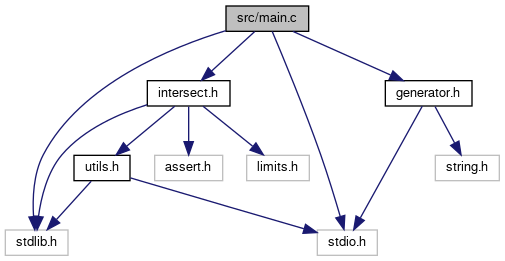
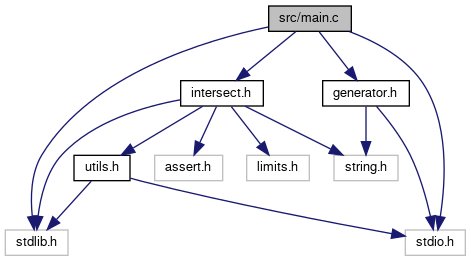
deploy: c0eaf6bf70ba02291c6ead931ca22426bdf595dd

diff --git a/intersect_8h_source.html b/intersect_8h_source.html
@@ -76,47 +76,49 @@ $(function() {
 <div class="line"><a name="l00014"></a><span class="lineno">   14</span>&#160; </div>
 <div class="line"><a name="l00015"></a><span class="lineno">   15</span>&#160;<span class="preprocessor">#include &lt;stdlib.h&gt;</span></div>
 <div class="line"><a name="l00016"></a><span class="lineno">   16</span>&#160;<span class="preprocessor">#include &lt;assert.h&gt;</span></div>
-<div class="line"><a name="l00017"></a><span class="lineno">   17</span>&#160;<span class="preprocessor">#include &lt;limits.h&gt;</span> <span class="comment">// INT_MAX</span></div>
-<div class="line"><a name="l00018"></a><span class="lineno">   18</span>&#160;<span class="preprocessor">#include &quot;<a class="code" href="utils_8h.html">utils.h</a>&quot;</span></div>
-<div class="line"><a name="l00019"></a><span class="lineno">   19</span>&#160; </div>
-<div class="line"><a name="l00020"></a><span class="lineno"><a class="line" href="structPaths.html">   20</a></span>&#160;<span class="keyword">typedef</span> <span class="keyword">struct </span>{</div>
-<div class="line"><a name="l00021"></a><span class="lineno">   21</span>&#160;  <span class="keywordtype">int</span>* p;</div>
-<div class="line"><a name="l00022"></a><span class="lineno">   22</span>&#160;  <span class="keywordtype">int</span>* l;</div>
-<div class="line"><a name="l00023"></a><span class="lineno">   23</span>&#160;  <span class="keywordtype">int</span>* r;</div>
-<div class="line"><a name="l00024"></a><span class="lineno">   24</span>&#160;  <span class="keywordtype">int</span> len;</div>
-<div class="line"><a name="l00025"></a><span class="lineno">   25</span>&#160;} <a class="code" href="structPaths.html">Paths</a>;</div>
-<div class="line"><a name="l00026"></a><span class="lineno">   26</span>&#160; </div>
-<div class="line"><a name="l00030"></a><span class="lineno">   30</span>&#160;<a class="code" href="structPaths.html">Paths</a> <a class="code" href="intersect_8h.html#a8825e952164dc385de3c4b5074821785">init_path</a>(<span class="keywordtype">int</span> len, <span class="keywordtype">int</span> p[], <span class="keywordtype">int</span> q[], <span class="keywordtype">int</span> r[]);</div>
-<div class="line"><a name="l00032"></a><span class="lineno">   32</span>&#160;<span class="keywordtype">void</span> <a class="code" href="intersect_8h.html#ac073207350efd314317ea290c18e830d">kill_path</a>(<a class="code" href="structPaths.html">Paths</a>);</div>
-<div class="line"><a name="l00033"></a><span class="lineno">   33</span>&#160; </div>
-<div class="line"><a name="l00034"></a><span class="lineno">   34</span>&#160; </div>
-<div class="line"><a name="l00043"></a><span class="lineno">   43</span>&#160;<span class="keywordtype">void</span> <a class="code" href="intersect_8h.html#a042d0437d8c9cdf4ac63c6f636269441">MERGE_SORT_FIRSTofThree</a>(<span class="keywordtype">int</span>* A, <span class="keywordtype">int</span>* a2, <span class="keywordtype">int</span>* a3, <span class="keywordtype">int</span> p, <span class="keywordtype">int</span> r);</div>
-<div class="line"><a name="l00045"></a><span class="lineno">   45</span>&#160;<span class="keywordtype">void</span> <a class="code" href="intersect_8h.html#a5c8fd40bb150eb9b965659743acc190f">MERGE_FIRSTofThree</a>(<span class="keywordtype">int</span>* A, <span class="keywordtype">int</span>* a2, <span class="keywordtype">int</span>* a3, <span class="keywordtype">int</span> p, <span class="keywordtype">int</span> q, <span class="keywordtype">int</span> r);</div>
-<div class="line"><a name="l00046"></a><span class="lineno">   46</span>&#160; </div>
-<div class="line"><a name="l00058"></a><span class="lineno">   58</span>&#160;<span class="keywordtype">int</span> <a class="code" href="intersect_8h.html#a6a4b796340d899fe719b47eff3a93c9e">MERGE_SORT_COUNT_INVERSION</a>(<span class="keywordtype">int</span>* Ps, <span class="keywordtype">int</span>* Ls, <span class="keywordtype">int</span>* Rs,<span class="keywordtype">int</span> l, <span class="keywordtype">int</span> r);</div>
-<div class="line"><a name="l00059"></a><span class="lineno">   59</span>&#160;<span class="keywordtype">int</span> MERGE_COUNT_INVERSION(<span class="keywordtype">int</span>* Ps, <span class="keywordtype">int</span>* Ls, <span class="keywordtype">int</span>* Rs, <span class="keywordtype">int</span> l, <span class="keywordtype">int</span> q, <span class="keywordtype">int</span> r);</div>
-<div class="line"><a name="l00060"></a><span class="lineno">   60</span>&#160; </div>
-<div class="line"><a name="l00062"></a><span class="lineno">   62</span>&#160;<span class="keywordtype">void</span> <a class="code" href="intersect_8h.html#a434c1a030b0e3acaf4df97cb2460eced">sortPaths_P</a>(<a class="code" href="structPaths.html">Paths</a>);</div>
-<div class="line"><a name="l00063"></a><span class="lineno">   63</span>&#160; </div>
-<div class="line"><a name="l00064"></a><span class="lineno">   64</span>&#160; </div>
-<div class="line"><a name="l00066"></a><span class="lineno">   66</span>&#160;<span class="keywordtype">int</span> <a class="code" href="intersect_8h.html#ac2db300b10cdf269eb03923416695aff">RegionOfBiggerEqualMono</a>(<span class="keywordtype">int</span> arr[], <span class="keywordtype">int</span> str, <span class="keywordtype">int</span> end, <span class="keywordtype">int</span> key,<span class="keywordtype">int</span>* beStr, <span class="keywordtype">int</span>* beEnd);</div>
-<div class="line"><a name="l00070"></a><span class="lineno">   70</span>&#160;<span class="keywordtype">int</span> <a class="code" href="intersect_8h.html#a728c7d72584160a044ea9333941268e7">ExcludeLen</a>(<span class="keywordtype">int</span> exStr, <span class="keywordtype">int</span> exEnd, <span class="keywordtype">int</span> conStr, <span class="keywordtype">int</span> conEnd);</div>
-<div class="line"><a name="l00071"></a><span class="lineno">   71</span>&#160; </div>
-<div class="line"><a name="l00081"></a><span class="lineno">   81</span>&#160;<span class="keywordtype">int</span> <a class="code" href="intersect_8h.html#a623d9088bdc9d72513a391fbd120b8d2">get_intersects</a>(<span class="keywordtype">int</span> n, <span class="keywordtype">int</span>* p, <span class="keywordtype">int</span>* q, <span class="keywordtype">int</span>* r);</div>
-<div class="line"><a name="l00082"></a><span class="lineno">   82</span>&#160; </div>
-<div class="line"><a name="l00083"></a><span class="lineno">   83</span>&#160; </div>
+<div class="line"><a name="l00017"></a><span class="lineno">   17</span>&#160;<span class="preprocessor">#include &lt;string.h&gt;</span></div>
+<div class="line"><a name="l00018"></a><span class="lineno">   18</span>&#160;<span class="preprocessor">#include &lt;limits.h&gt;</span> <span class="comment">// INT_MAX</span></div>
+<div class="line"><a name="l00019"></a><span class="lineno">   19</span>&#160;<span class="preprocessor">#include &quot;<a class="code" href="utils_8h.html">utils.h</a>&quot;</span></div>
+<div class="line"><a name="l00020"></a><span class="lineno">   20</span>&#160; </div>
+<div class="line"><a name="l00021"></a><span class="lineno"><a class="line" href="structPaths.html">   21</a></span>&#160;<span class="keyword">typedef</span> <span class="keyword">struct </span>{</div>
+<div class="line"><a name="l00022"></a><span class="lineno">   22</span>&#160;  <span class="keywordtype">int</span>* p;</div>
+<div class="line"><a name="l00023"></a><span class="lineno">   23</span>&#160;  <span class="keywordtype">int</span>* l;</div>
+<div class="line"><a name="l00024"></a><span class="lineno">   24</span>&#160;  <span class="keywordtype">int</span>* l_; <span class="comment">//Original </span></div>
+<div class="line"><a name="l00025"></a><span class="lineno">   25</span>&#160;  <span class="keywordtype">int</span>* r;</div>
+<div class="line"><a name="l00026"></a><span class="lineno">   26</span>&#160;  <span class="keywordtype">int</span> len;</div>
+<div class="line"><a name="l00027"></a><span class="lineno">   27</span>&#160;} <a class="code" href="structPaths.html">Paths</a>;</div>
+<div class="line"><a name="l00028"></a><span class="lineno">   28</span>&#160; </div>
+<div class="line"><a name="l00032"></a><span class="lineno">   32</span>&#160;<a class="code" href="structPaths.html">Paths</a> <a class="code" href="intersect_8h.html#a8825e952164dc385de3c4b5074821785">init_path</a>(<span class="keywordtype">int</span> len, <span class="keywordtype">int</span> p[], <span class="keywordtype">int</span> q[], <span class="keywordtype">int</span> r[]);</div>
+<div class="line"><a name="l00034"></a><span class="lineno">   34</span>&#160;<span class="keywordtype">void</span> <a class="code" href="intersect_8h.html#ac073207350efd314317ea290c18e830d">kill_path</a>(<a class="code" href="structPaths.html">Paths</a>);</div>
+<div class="line"><a name="l00035"></a><span class="lineno">   35</span>&#160; </div>
+<div class="line"><a name="l00036"></a><span class="lineno">   36</span>&#160; </div>
+<div class="line"><a name="l00045"></a><span class="lineno">   45</span>&#160;<span class="keywordtype">void</span> <a class="code" href="intersect_8h.html#a042d0437d8c9cdf4ac63c6f636269441">MERGE_SORT_FIRSTofThree</a>(<span class="keywordtype">int</span>* A, <span class="keywordtype">int</span>* a2, <span class="keywordtype">int</span>* a3, <span class="keywordtype">int</span> p, <span class="keywordtype">int</span> r);</div>
+<div class="line"><a name="l00047"></a><span class="lineno">   47</span>&#160;<span class="keywordtype">void</span> <a class="code" href="intersect_8h.html#a5c8fd40bb150eb9b965659743acc190f">MERGE_FIRSTofThree</a>(<span class="keywordtype">int</span>* A, <span class="keywordtype">int</span>* a2, <span class="keywordtype">int</span>* a3, <span class="keywordtype">int</span> p, <span class="keywordtype">int</span> q, <span class="keywordtype">int</span> r);</div>
+<div class="line"><a name="l00048"></a><span class="lineno">   48</span>&#160; </div>
+<div class="line"><a name="l00060"></a><span class="lineno">   60</span>&#160;<span class="keywordtype">int</span> <a class="code" href="intersect_8h.html#a6a4b796340d899fe719b47eff3a93c9e">MERGE_SORT_COUNT_INVERSION</a>(<span class="keywordtype">int</span>* Ps, <span class="keywordtype">int</span>* Ls, <span class="keywordtype">int</span>* Rs,<span class="keywordtype">int</span> l, <span class="keywordtype">int</span> r);</div>
+<div class="line"><a name="l00061"></a><span class="lineno">   61</span>&#160;<span class="keywordtype">int</span> MERGE_COUNT_INVERSION(<span class="keywordtype">int</span>* Ps, <span class="keywordtype">int</span>* Ls, <span class="keywordtype">int</span>* Rs, <span class="keywordtype">int</span> l, <span class="keywordtype">int</span> q, <span class="keywordtype">int</span> r);</div>
+<div class="line"><a name="l00062"></a><span class="lineno">   62</span>&#160; </div>
+<div class="line"><a name="l00064"></a><span class="lineno">   64</span>&#160;<span class="keywordtype">void</span> <a class="code" href="intersect_8h.html#a434c1a030b0e3acaf4df97cb2460eced">sortPaths_P</a>(<a class="code" href="structPaths.html">Paths</a>);</div>
+<div class="line"><a name="l00065"></a><span class="lineno">   65</span>&#160; </div>
+<div class="line"><a name="l00066"></a><span class="lineno">   66</span>&#160; </div>
+<div class="line"><a name="l00068"></a><span class="lineno">   68</span>&#160;<span class="keywordtype">int</span> <a class="code" href="intersect_8h.html#ac2db300b10cdf269eb03923416695aff">RegionOfBiggerEqualMono</a>(<span class="keywordtype">int</span> arr[], <span class="keywordtype">int</span> str, <span class="keywordtype">int</span> end, <span class="keywordtype">int</span> key,<span class="keywordtype">int</span>* beStr, <span class="keywordtype">int</span>* beEnd);</div>
+<div class="line"><a name="l00072"></a><span class="lineno">   72</span>&#160;<span class="keywordtype">int</span> <a class="code" href="intersect_8h.html#a728c7d72584160a044ea9333941268e7">ExcludeLen</a>(<span class="keywordtype">int</span> exStr, <span class="keywordtype">int</span> exEnd, <span class="keywordtype">int</span> conStr, <span class="keywordtype">int</span> conEnd);</div>
+<div class="line"><a name="l00073"></a><span class="lineno">   73</span>&#160; </div>
+<div class="line"><a name="l00083"></a><span class="lineno">   83</span>&#160;<span class="keywordtype">int</span> <a class="code" href="intersect_8h.html#a623d9088bdc9d72513a391fbd120b8d2">get_intersects</a>(<span class="keywordtype">int</span> n, <span class="keywordtype">int</span>* p, <span class="keywordtype">int</span>* q, <span class="keywordtype">int</span>* r);</div>
 <div class="line"><a name="l00084"></a><span class="lineno">   84</span>&#160; </div>
-<div class="line"><a name="l00085"></a><span class="lineno">   85</span>&#160;<span class="preprocessor">#endif</span></div>
-<div class="ttc" id="aintersect_8h_html_a042d0437d8c9cdf4ac63c6f636269441"><div class="ttname"><a href="intersect_8h.html#a042d0437d8c9cdf4ac63c6f636269441">MERGE_SORT_FIRSTofThree</a></div><div class="ttdeci">void MERGE_SORT_FIRSTofThree(int *A, int *a2, int *a3, int p, int r)</div><div class="ttdoc">Merge Sort first array along with 3 arrays. Increasing order.</div><div class="ttdef"><b>Definition:</b> intersect.c:36</div></div>
-<div class="ttc" id="aintersect_8h_html_a434c1a030b0e3acaf4df97cb2460eced"><div class="ttname"><a href="intersect_8h.html#a434c1a030b0e3acaf4df97cb2460eced">sortPaths_P</a></div><div class="ttdeci">void sortPaths_P(Paths)</div><div class="ttdef"><b>Definition:</b> intersect.c:100</div></div>
-<div class="ttc" id="aintersect_8h_html_a5c8fd40bb150eb9b965659743acc190f"><div class="ttname"><a href="intersect_8h.html#a5c8fd40bb150eb9b965659743acc190f">MERGE_FIRSTofThree</a></div><div class="ttdeci">void MERGE_FIRSTofThree(int *A, int *a2, int *a3, int p, int q, int r)</div><div class="ttdef"><b>Definition:</b> intersect.c:45</div></div>
-<div class="ttc" id="aintersect_8h_html_a623d9088bdc9d72513a391fbd120b8d2"><div class="ttname"><a href="intersect_8h.html#a623d9088bdc9d72513a391fbd120b8d2">get_intersects</a></div><div class="ttdeci">int get_intersects(int n, int *p, int *q, int *r)</div><div class="ttdoc">Get the intersects object.</div><div class="ttdef"><b>Definition:</b> intersect.c:268</div></div>
-<div class="ttc" id="aintersect_8h_html_a6a4b796340d899fe719b47eff3a93c9e"><div class="ttname"><a href="intersect_8h.html#a6a4b796340d899fe719b47eff3a93c9e">MERGE_SORT_COUNT_INVERSION</a></div><div class="ttdeci">int MERGE_SORT_COUNT_INVERSION(int *Ps, int *Ls, int *Rs, int l, int r)</div><div class="ttdef"><b>Definition:</b> intersect.c:104</div></div>
-<div class="ttc" id="aintersect_8h_html_a728c7d72584160a044ea9333941268e7"><div class="ttname"><a href="intersect_8h.html#a728c7d72584160a044ea9333941268e7">ExcludeLen</a></div><div class="ttdeci">int ExcludeLen(int exStr, int exEnd, int conStr, int conEnd)</div><div class="ttdef"><b>Definition:</b> intersect.c:243</div></div>
+<div class="line"><a name="l00085"></a><span class="lineno">   85</span>&#160; </div>
+<div class="line"><a name="l00086"></a><span class="lineno">   86</span>&#160; </div>
+<div class="line"><a name="l00087"></a><span class="lineno">   87</span>&#160;<span class="preprocessor">#endif</span></div>
+<div class="ttc" id="aintersect_8h_html_a042d0437d8c9cdf4ac63c6f636269441"><div class="ttname"><a href="intersect_8h.html#a042d0437d8c9cdf4ac63c6f636269441">MERGE_SORT_FIRSTofThree</a></div><div class="ttdeci">void MERGE_SORT_FIRSTofThree(int *A, int *a2, int *a3, int p, int r)</div><div class="ttdoc">Merge Sort first array along with 3 arrays. Increasing order.</div><div class="ttdef"><b>Definition:</b> intersect.c:41</div></div>
+<div class="ttc" id="aintersect_8h_html_a434c1a030b0e3acaf4df97cb2460eced"><div class="ttname"><a href="intersect_8h.html#a434c1a030b0e3acaf4df97cb2460eced">sortPaths_P</a></div><div class="ttdeci">void sortPaths_P(Paths)</div><div class="ttdef"><b>Definition:</b> intersect.c:105</div></div>
+<div class="ttc" id="aintersect_8h_html_a5c8fd40bb150eb9b965659743acc190f"><div class="ttname"><a href="intersect_8h.html#a5c8fd40bb150eb9b965659743acc190f">MERGE_FIRSTofThree</a></div><div class="ttdeci">void MERGE_FIRSTofThree(int *A, int *a2, int *a3, int p, int q, int r)</div><div class="ttdef"><b>Definition:</b> intersect.c:50</div></div>
+<div class="ttc" id="aintersect_8h_html_a623d9088bdc9d72513a391fbd120b8d2"><div class="ttname"><a href="intersect_8h.html#a623d9088bdc9d72513a391fbd120b8d2">get_intersects</a></div><div class="ttdeci">int get_intersects(int n, int *p, int *q, int *r)</div><div class="ttdoc">Get the intersects object.</div><div class="ttdef"><b>Definition:</b> intersect.c:273</div></div>
+<div class="ttc" id="aintersect_8h_html_a6a4b796340d899fe719b47eff3a93c9e"><div class="ttname"><a href="intersect_8h.html#a6a4b796340d899fe719b47eff3a93c9e">MERGE_SORT_COUNT_INVERSION</a></div><div class="ttdeci">int MERGE_SORT_COUNT_INVERSION(int *Ps, int *Ls, int *Rs, int l, int r)</div><div class="ttdef"><b>Definition:</b> intersect.c:109</div></div>
+<div class="ttc" id="aintersect_8h_html_a728c7d72584160a044ea9333941268e7"><div class="ttname"><a href="intersect_8h.html#a728c7d72584160a044ea9333941268e7">ExcludeLen</a></div><div class="ttdeci">int ExcludeLen(int exStr, int exEnd, int conStr, int conEnd)</div><div class="ttdef"><b>Definition:</b> intersect.c:248</div></div>
 <div class="ttc" id="aintersect_8h_html_a8825e952164dc385de3c4b5074821785"><div class="ttname"><a href="intersect_8h.html#a8825e952164dc385de3c4b5074821785">init_path</a></div><div class="ttdeci">Paths init_path(int len, int p[], int q[], int r[])</div><div class="ttdef"><b>Definition:</b> intersect.c:4</div></div>
-<div class="ttc" id="aintersect_8h_html_ac073207350efd314317ea290c18e830d"><div class="ttname"><a href="intersect_8h.html#ac073207350efd314317ea290c18e830d">kill_path</a></div><div class="ttdeci">void kill_path(Paths)</div><div class="ttdef"><b>Definition:</b> intersect.c:30</div></div>
-<div class="ttc" id="aintersect_8h_html_ac2db300b10cdf269eb03923416695aff"><div class="ttname"><a href="intersect_8h.html#ac2db300b10cdf269eb03923416695aff">RegionOfBiggerEqualMono</a></div><div class="ttdeci">int RegionOfBiggerEqualMono(int arr[], int str, int end, int key, int *beStr, int *beEnd)</div><div class="ttdef"><b>Definition:</b> intersect.c:209</div></div>
-<div class="ttc" id="astructPaths_html"><div class="ttname"><a href="structPaths.html">Paths</a></div><div class="ttdef"><b>Definition:</b> intersect.h:20</div></div>
+<div class="ttc" id="aintersect_8h_html_ac073207350efd314317ea290c18e830d"><div class="ttname"><a href="intersect_8h.html#ac073207350efd314317ea290c18e830d">kill_path</a></div><div class="ttdeci">void kill_path(Paths)</div><div class="ttdef"><b>Definition:</b> intersect.c:34</div></div>
+<div class="ttc" id="aintersect_8h_html_ac2db300b10cdf269eb03923416695aff"><div class="ttname"><a href="intersect_8h.html#ac2db300b10cdf269eb03923416695aff">RegionOfBiggerEqualMono</a></div><div class="ttdeci">int RegionOfBiggerEqualMono(int arr[], int str, int end, int key, int *beStr, int *beEnd)</div><div class="ttdef"><b>Definition:</b> intersect.c:214</div></div>
+<div class="ttc" id="astructPaths_html"><div class="ttname"><a href="structPaths.html">Paths</a></div><div class="ttdef"><b>Definition:</b> intersect.h:21</div></div>
 <div class="ttc" id="autils_8h_html"><div class="ttname"><a href="utils_8h.html">utils.h</a></div><div class="ttdoc">General Utilities.</div></div>
 </div><!-- fragment --></div><!-- contents -->
 <!-- start footer part -->

diff --git a/test__intersects_8h_source.html b/test__intersects_8h_source.html
@@ -97,30 +97,36 @@ $(function() {
 <div class="line"><a name="l00026"></a><span class="lineno">   26</span>&#160;        }</div>
 <div class="line"><a name="l00027"></a><span class="lineno">   27</span>&#160;    }</div>
 <div class="line"><a name="l00028"></a><span class="lineno">   28</span>&#160; </div>
-<div class="line"><a name="l00029"></a><span class="lineno">   29</span>&#160;    <a class="code" href="intersect_8h.html#a434c1a030b0e3acaf4df97cb2460eced">sortPaths_P</a>(pt);</div>
-<div class="line"><a name="l00030"></a><span class="lineno">   30</span>&#160; </div>
-<div class="line"><a name="l00031"></a><span class="lineno">   31</span>&#160;    TEST_CHECK(pt.p[0] == -14);</div>
-<div class="line"><a name="l00032"></a><span class="lineno">   32</span>&#160;    TEST_CHECK(pt.l[0] == -16);</div>
-<div class="line"><a name="l00033"></a><span class="lineno">   33</span>&#160;    TEST_CHECK(pt.r[0] == 12);</div>
+<div class="line"><a name="l00029"></a><span class="lineno">   29</span>&#160; </div>
+<div class="line"><a name="l00030"></a><span class="lineno">   30</span>&#160;    <span class="keywordflow">for</span>(<span class="keywordtype">int</span> i=0;i&lt;n;i++){</div>
+<div class="line"><a name="l00031"></a><span class="lineno">   31</span>&#160;        TEST_CHECK(pt.l[i]==pt.l_[i]);</div>
+<div class="line"><a name="l00032"></a><span class="lineno">   32</span>&#160;        TEST_MSG(<span class="stringliteral">&quot;%d != %d&quot;</span>,pt.l[i],pt.l_[i]);</div>
+<div class="line"><a name="l00033"></a><span class="lineno">   33</span>&#160;    }</div>
 <div class="line"><a name="l00034"></a><span class="lineno">   34</span>&#160; </div>
-<div class="line"><a name="l00035"></a><span class="lineno">   35</span>&#160;    TEST_CHECK(pt.p[9] == 15);</div>
-<div class="line"><a name="l00036"></a><span class="lineno">   36</span>&#160;    TEST_CHECK(pt.l[9] == -16);</div>
-<div class="line"><a name="l00037"></a><span class="lineno">   37</span>&#160;    TEST_CHECK(pt.r[9] == -15);</div>
-<div class="line"><a name="l00038"></a><span class="lineno">   38</span>&#160;    TEST_MSG(<span class="stringliteral">&quot;Got %d&quot;</span>,pt.l[9]);</div>
-<div class="line"><a name="l00039"></a><span class="lineno">   39</span>&#160; </div>
-<div class="line"><a name="l00040"></a><span class="lineno">   40</span>&#160;    TEST_CHECK(pt.p[4] == -5);</div>
-<div class="line"><a name="l00041"></a><span class="lineno">   41</span>&#160;    TEST_CHECK(pt.l[4] == -7);</div>
-<div class="line"><a name="l00042"></a><span class="lineno">   42</span>&#160;    TEST_CHECK(pt.r[4] == 2);</div>
-<div class="line"><a name="l00043"></a><span class="lineno">   43</span>&#160; </div>
-<div class="line"><a name="l00044"></a><span class="lineno">   44</span>&#160;    <span class="comment">//Kill</span></div>
-<div class="line"><a name="l00045"></a><span class="lineno">   45</span>&#160;    <a class="code" href="intersect_8h.html#ac073207350efd314317ea290c18e830d">kill_path</a>(pt);</div>
-<div class="line"><a name="l00046"></a><span class="lineno">   46</span>&#160;}</div>
+<div class="line"><a name="l00035"></a><span class="lineno">   35</span>&#160;    <a class="code" href="intersect_8h.html#a434c1a030b0e3acaf4df97cb2460eced">sortPaths_P</a>(pt);    </div>
+<div class="line"><a name="l00036"></a><span class="lineno">   36</span>&#160; </div>
+<div class="line"><a name="l00037"></a><span class="lineno">   37</span>&#160;    TEST_CHECK(pt.p[0] == -14);</div>
+<div class="line"><a name="l00038"></a><span class="lineno">   38</span>&#160;    TEST_CHECK(pt.l[0] == -16);</div>
+<div class="line"><a name="l00039"></a><span class="lineno">   39</span>&#160;    TEST_CHECK(pt.r[0] == 12);</div>
+<div class="line"><a name="l00040"></a><span class="lineno">   40</span>&#160; </div>
+<div class="line"><a name="l00041"></a><span class="lineno">   41</span>&#160;    TEST_CHECK(pt.p[9] == 15);</div>
+<div class="line"><a name="l00042"></a><span class="lineno">   42</span>&#160;    TEST_CHECK(pt.l[9] == -16);</div>
+<div class="line"><a name="l00043"></a><span class="lineno">   43</span>&#160;    TEST_CHECK(pt.r[9] == -15);</div>
+<div class="line"><a name="l00044"></a><span class="lineno">   44</span>&#160;    TEST_MSG(<span class="stringliteral">&quot;Got %d&quot;</span>,pt.l[9]);</div>
+<div class="line"><a name="l00045"></a><span class="lineno">   45</span>&#160; </div>
+<div class="line"><a name="l00046"></a><span class="lineno">   46</span>&#160;    TEST_CHECK(pt.p[4] == -5);</div>
+<div class="line"><a name="l00047"></a><span class="lineno">   47</span>&#160;    TEST_CHECK(pt.l[4] == -7);</div>
+<div class="line"><a name="l00048"></a><span class="lineno">   48</span>&#160;    TEST_CHECK(pt.r[4] == 2);</div>
+<div class="line"><a name="l00049"></a><span class="lineno">   49</span>&#160; </div>
+<div class="line"><a name="l00050"></a><span class="lineno">   50</span>&#160;    <span class="comment">//Kill</span></div>
+<div class="line"><a name="l00051"></a><span class="lineno">   51</span>&#160;    <a class="code" href="intersect_8h.html#ac073207350efd314317ea290c18e830d">kill_path</a>(pt);</div>
+<div class="line"><a name="l00052"></a><span class="lineno">   52</span>&#160;}</div>
 <div class="ttc" id="agenerator_8h_html"><div class="ttname"><a href="generator_8h.html">generator.h</a></div><div class="ttdoc">Random generator for triangle coordinations.</div></div>
 <div class="ttc" id="aintersect_8h_html"><div class="ttname"><a href="intersect_8h.html">intersect.h</a></div><div class="ttdoc">Calculating inversions.</div></div>
-<div class="ttc" id="aintersect_8h_html_a434c1a030b0e3acaf4df97cb2460eced"><div class="ttname"><a href="intersect_8h.html#a434c1a030b0e3acaf4df97cb2460eced">sortPaths_P</a></div><div class="ttdeci">void sortPaths_P(Paths)</div><div class="ttdef"><b>Definition:</b> intersect.c:100</div></div>
+<div class="ttc" id="aintersect_8h_html_a434c1a030b0e3acaf4df97cb2460eced"><div class="ttname"><a href="intersect_8h.html#a434c1a030b0e3acaf4df97cb2460eced">sortPaths_P</a></div><div class="ttdeci">void sortPaths_P(Paths)</div><div class="ttdef"><b>Definition:</b> intersect.c:105</div></div>
 <div class="ttc" id="aintersect_8h_html_a8825e952164dc385de3c4b5074821785"><div class="ttname"><a href="intersect_8h.html#a8825e952164dc385de3c4b5074821785">init_path</a></div><div class="ttdeci">Paths init_path(int len, int p[], int q[], int r[])</div><div class="ttdef"><b>Definition:</b> intersect.c:4</div></div>
-<div class="ttc" id="aintersect_8h_html_ac073207350efd314317ea290c18e830d"><div class="ttname"><a href="intersect_8h.html#ac073207350efd314317ea290c18e830d">kill_path</a></div><div class="ttdeci">void kill_path(Paths)</div><div class="ttdef"><b>Definition:</b> intersect.c:30</div></div>
-<div class="ttc" id="astructPaths_html"><div class="ttname"><a href="structPaths.html">Paths</a></div><div class="ttdef"><b>Definition:</b> intersect.h:20</div></div>
+<div class="ttc" id="aintersect_8h_html_ac073207350efd314317ea290c18e830d"><div class="ttname"><a href="intersect_8h.html#ac073207350efd314317ea290c18e830d">kill_path</a></div><div class="ttdeci">void kill_path(Paths)</div><div class="ttdef"><b>Definition:</b> intersect.c:34</div></div>
+<div class="ttc" id="astructPaths_html"><div class="ttname"><a href="structPaths.html">Paths</a></div><div class="ttdef"><b>Definition:</b> intersect.h:21</div></div>
 <div class="ttc" id="autils_8h_html"><div class="ttname"><a href="utils_8h.html">utils.h</a></div><div class="ttdoc">General Utilities.</div></div>
 </div><!-- fragment --></div><!-- contents -->
 <!-- start footer part -->

diff --git a/structPaths-members.html b/structPaths-members.html
@@ -69,9 +69,10 @@ $(function() {
 <p>This is the complete list of members for <a class="el" href="structPaths.html">Paths</a>, including all inherited members.</p>
 <table class="directory">
   <tr bgcolor="#f0f0f0" class="even"><td class="entry"><b>l</b> (defined in <a class="el" href="structPaths.html">Paths</a>)</td><td class="entry"><a class="el" href="structPaths.html">Paths</a></td><td class="entry"></td></tr>
-  <tr bgcolor="#f0f0f0"><td class="entry"><b>len</b> (defined in <a class="el" href="structPaths.html">Paths</a>)</td><td class="entry"><a class="el" href="structPaths.html">Paths</a></td><td class="entry"></td></tr>
-  <tr bgcolor="#f0f0f0" class="even"><td class="entry"><b>p</b> (defined in <a class="el" href="structPaths.html">Paths</a>)</td><td class="entry"><a class="el" href="structPaths.html">Paths</a></td><td class="entry"></td></tr>
-  <tr bgcolor="#f0f0f0"><td class="entry"><b>r</b> (defined in <a class="el" href="structPaths.html">Paths</a>)</td><td class="entry"><a class="el" href="structPaths.html">Paths</a></td><td class="entry"></td></tr>
+  <tr bgcolor="#f0f0f0"><td class="entry"><b>l_</b> (defined in <a class="el" href="structPaths.html">Paths</a>)</td><td class="entry"><a class="el" href="structPaths.html">Paths</a></td><td class="entry"></td></tr>
+  <tr bgcolor="#f0f0f0" class="even"><td class="entry"><b>len</b> (defined in <a class="el" href="structPaths.html">Paths</a>)</td><td class="entry"><a class="el" href="structPaths.html">Paths</a></td><td class="entry"></td></tr>
+  <tr bgcolor="#f0f0f0"><td class="entry"><b>p</b> (defined in <a class="el" href="structPaths.html">Paths</a>)</td><td class="entry"><a class="el" href="structPaths.html">Paths</a></td><td class="entry"></td></tr>
+  <tr bgcolor="#f0f0f0" class="even"><td class="entry"><b>r</b> (defined in <a class="el" href="structPaths.html">Paths</a>)</td><td class="entry"><a class="el" href="structPaths.html">Paths</a></td><td class="entry"></td></tr>
 </table></div><!-- contents -->
 <!-- start footer part -->
 <hr class="footer"/><address class="footer"><small>

diff --git a/intersect_8h.html b/intersect_8h.html
@@ -77,6 +77,7 @@ $(function() {
 <a href="#details">More...</a></p>
 <div class="textblock"><code>#include &lt;stdlib.h&gt;</code><br />
 <code>#include &lt;assert.h&gt;</code><br />
+<code>#include &lt;string.h&gt;</code><br />
 <code>#include &lt;limits.h&gt;</code><br />
 <code>#include &quot;<a class="el" href="utils_8h_source.html">utils.h</a>&quot;</code><br />
 </div><div class="textblock"><div class="dynheader">
@@ -84,12 +85,13 @@ Include dependency graph for intersect.h:</div>
 <div class="dyncontent">
 <div class="center"><img src="intersect_8h__incl.png" border="0" usemap="#asrc_2intersect_8h" alt=""/></div>
 <map name="asrc_2intersect_8h" id="asrc_2intersect_8h">
-<area shape="rect" title="Calculating inversions." alt="" coords="48,5,152,32"/>
-<area shape="rect" title=" " alt="" coords="33,155,96,181"/>
-<area shape="rect" title=" " alt="" coords="22,80,90,107"/>
-<area shape="rect" title=" " alt="" coords="114,80,177,107"/>
-<area shape="rect" href="utils_8h.html" title="General Utilities." alt="" coords="202,80,258,107"/>
-<area shape="rect" title=" " alt="" coords="200,155,260,181"/>
+<area shape="rect" title="Calculating inversions." alt="" coords="96,5,200,32"/>
+<area shape="rect" title=" " alt="" coords="79,155,142,181"/>
+<area shape="rect" title=" " alt="" coords="23,80,91,107"/>
+<area shape="rect" title=" " alt="" coords="116,80,180,107"/>
+<area shape="rect" title=" " alt="" coords="205,80,267,107"/>
+<area shape="rect" href="utils_8h.html" title="General Utilities." alt="" coords="292,80,348,107"/>
+<area shape="rect" title=" " alt="" coords="290,155,350,181"/>
 </map>
 </div>
 </div><div class="textblock"><div class="dynheader">

diff --git a/main_8c.html b/main_8c.html
@@ -83,15 +83,15 @@ Include dependency graph for main.c:</div>
 <div class="dyncontent">
 <div class="center"><img src="main_8c__incl.png" border="0" usemap="#asrc_2main_8c" alt=""/></div>
 <map name="asrc_2main_8c" id="asrc_2main_8c">
-<area shape="rect" title="Get Triangle Intersections with Merge sort." alt="" coords="226,5,309,32"/>
-<area shape="rect" title=" " alt="" coords="317,229,377,256"/>
+<area shape="rect" title="Get Triangle Intersections with Merge sort." alt="" coords="269,5,351,32"/>
+<area shape="rect" title=" " alt="" coords="405,229,465,256"/>
 <area shape="rect" title=" " alt="" coords="5,229,68,256"/>
-<area shape="rect" href="intersect_8h.html" title="Calculating inversions." alt="" coords="147,80,230,107"/>
-<area shape="rect" href="generator_8h.html" title="Random generator for triangle coordinations." alt="" coords="385,80,472,107"/>
+<area shape="rect" href="intersect_8h.html" title="Calculating inversions." alt="" coords="181,80,263,107"/>
+<area shape="rect" href="generator_8h.html" title="Random generator for triangle coordinations." alt="" coords="323,80,409,107"/>
 <area shape="rect" title=" " alt="" coords="155,155,223,181"/>
+<area shape="rect" title=" " alt="" coords="334,155,398,181"/>
 <area shape="rect" title=" " alt="" coords="247,155,309,181"/>
 <area shape="rect" href="utils_8h.html" title="General Utilities." alt="" coords="74,155,130,181"/>
-<area shape="rect" title=" " alt="" coords="435,155,499,181"/>
 </map>
 </div>
 </div><table class="memberdecls">

diff --git a/structPaths.html b/structPaths.html
@@ -77,6 +77,9 @@ int *&#160;</td><td class="memItemRight" valign="bottom"><b>p</b></td></tr>
 <tr class="memitem:a89424a0e718bd418c26d6e0151551a59"><td class="memItemLeft" align="right" valign="top"><a id="a89424a0e718bd418c26d6e0151551a59"></a>
 int *&#160;</td><td class="memItemRight" valign="bottom"><b>l</b></td></tr>
 <tr class="separator:a89424a0e718bd418c26d6e0151551a59"><td class="memSeparator" colspan="2">&#160;</td></tr>
+<tr class="memitem:a3fc650a7ada80f71c58255eeaf770dbc"><td class="memItemLeft" align="right" valign="top"><a id="a3fc650a7ada80f71c58255eeaf770dbc"></a>
+int *&#160;</td><td class="memItemRight" valign="bottom"><b>l_</b></td></tr>
+<tr class="separator:a3fc650a7ada80f71c58255eeaf770dbc"><td class="memSeparator" colspan="2">&#160;</td></tr>
 <tr class="memitem:ac91c19c338191ffc52a2847889fb8adb"><td class="memItemLeft" align="right" valign="top"><a id="ac91c19c338191ffc52a2847889fb8adb"></a>
 int *&#160;</td><td class="memItemRight" valign="bottom"><b>r</b></td></tr>
 <tr class="separator:ac91c19c338191ffc52a2847889fb8adb"><td class="memSeparator" colspan="2">&#160;</td></tr>

diff --git a/index.html b/index.html
@@ -365,7 +365,10 @@ Draft</h1>
 <h1><a class="anchor" id="autotoc_md14"></a>
 Returning array in C</h1>
 <p><img src="https://static.javatpoint.com/cpages/images/return-an-array-in-c4.png" alt="" class="inline"/></p>
-<p>Ref: <a href="https://www.javatpoint.com/return-an-array-in-c">https://www.javatpoint.com/return-an-array-in-c</a> </p>
+<p>Ref: <a href="https://www.javatpoint.com/return-an-array-in-c">https://www.javatpoint.com/return-an-array-in-c</a></p>
+<h1><a class="anchor" id="autotoc_md15"></a>
+Copy array with &lt;tt&gt;memcpy&lt;/tt&gt;</h1>
+<p><a href="https://stackoverflow.com/questions/2681061/memcpy-what-should-the-value-of-the-size-parameter-be">https://stackoverflow.com/questions/2681061/memcpy-what-should-the-value-of-the-size-parameter-be</a> </p>
 </div></div><!-- PageDoc -->
 </div><!-- contents -->
 <!-- start footer part -->
